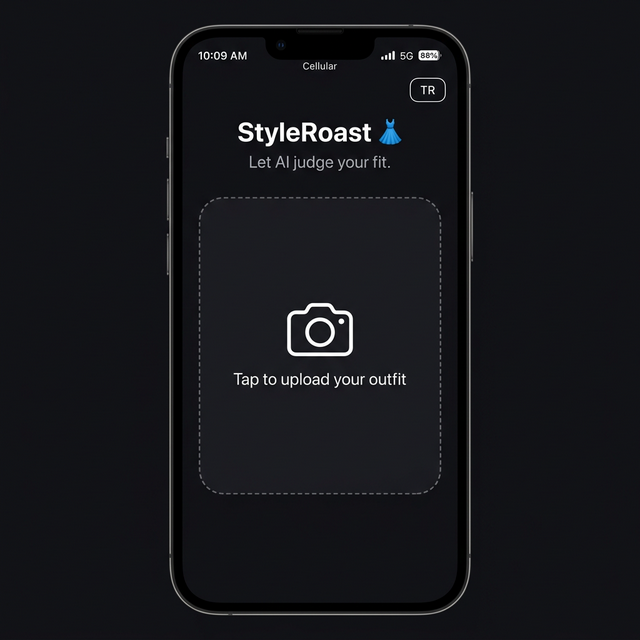
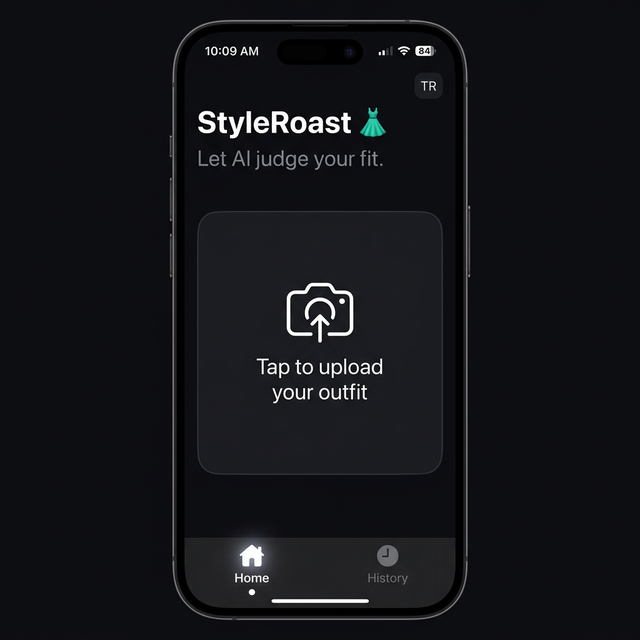
📸 Update screenshots & README with scoring, sharing & history features

diff --git a/README.md b/README.md
@@ -20,11 +20,11 @@ Perfect for fashion enthusiasts, indecisive morning dressers, or anyone who just
   <p>
     <img src="./github_assets/screenshot_home.png" width="250" alt="Home Screen" />
     &nbsp;&nbsp;
-    <img src="./github_assets/screenshot_roast.png" width="250" alt="Roast Result" />
+    <img src="./github_assets/screenshot_roast.png" width="250" alt="Roast with Score" />
     &nbsp;&nbsp;
-    <img src="./github_assets/screenshot_turkish.png" width="250" alt="Turkish Mode" />
+    <img src="./github_assets/screenshot_history.png" width="250" alt="History Tab" />
   </p>
-  <p><em>Home Screen &nbsp;|&nbsp; 🔥 Roast Mode &nbsp;|&nbsp; 🇹🇷 Turkish Mode</em></p>
+  <p><em>Home Screen &nbsp;|&nbsp; 🔥 Roast + Score &nbsp;|&nbsp; 📜 History Tab</em></p>
 </div>
 
 ---
@@ -33,8 +33,11 @@ Perfect for fashion enthusiasts, indecisive morning dressers, or anyone who just
 
 - **📸 In-App Camera Integration:** Snap a picture of your outfit directly from the app or upload one from your gallery.
 - **🤖 Advanced Vision AI:** Powered by the Google Gemini AI (1.5 / 2.5 Flash) model to deeply analyze clothing patterns, color coordination, and style trends.
-- **� Bilingual Support (EN / TR):** Switch between English and Turkish with a single tap. Both the UI and AI responses adapt to your selected language in real-time.
-- **�🎨 Dynamic UI/UX:** A stunning, modern interface featuring smooth animations and glassmorphism elements.
+- **⭐ AI Scoring System:** Each outfit gets a brutal or fair 1-10 score displayed with a stunning golden badge.
+- **📤 Share Results:** Share your AI roast or style advice instantly to Instagram, WhatsApp, Twitter, and more.
+- **📜 Analysis History:** All your past analyses are saved and displayed in a beautiful History tab with score progress bars.
+- **🌍 Bilingual Support (EN / TR):** Switch between English and Turkish with a single tap. Both the UI and AI responses adapt to your selected language in real-time.
+- **🎨 Dynamic UI/UX:** A stunning, modern interface featuring smooth animations and glassmorphism elements.
 - **📱 Cross Platform:** Fully functional on both iOS and Android thanks to Expo and React Native.
 
 ## 🛠 Tech Stack
